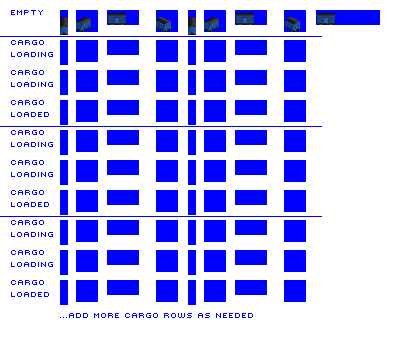
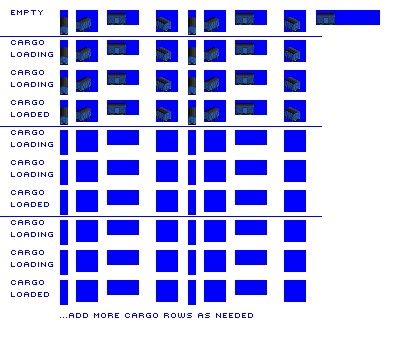
Codechange: prepare box cars for loading state support

diff --git a/src/vehicles/box_cars.py b/src/vehicles/box_cars.py
@@ -1,14 +1,19 @@
 import global_constants
 from train import TypeConfig, WagonConsist, Wagon, GraphicsProcessorFactory
 
+box_car_label_refits_allowed = ['MAIL', 'GRAI', 'WHEA', 'MAIZ', 'FRUT']
+cargo_graphics_mappings = {} # template needs this, but box car has zero cargo-specific graphics, all generic
+
 options = {'template': 'box_car_brit_gen_1_template.png'}
 graphics_processor_1 = GraphicsProcessorFactory('pass_through_pipeline', options)
 graphics_processor_2 = GraphicsProcessorFactory('swap_company_colours_pipeline', options)
 
 type_config = TypeConfig(base_id = 'box_car',
-                    template = 'train.pynml',
+                    template = 'car_with_open_doors_during_loading.pynml',
+                    num_cargo_rows = 1, # template needs this, but box car has zero cargo-specific graphics, all generic
                     class_refit_groups = ['packaged_freight'],
-                    label_refits_allowed = ['GRAI', 'WHEA', 'MAIZ', 'FRUT'],
+                    label_refits_allowed = box_car_label_refits_allowed,
+                    cargo_graphics_mappings = cargo_graphics_mappings,
                     label_refits_disallowed = [],
                     autorefit = True,
                     default_cargo = 'GOOD',
@@ -110,9 +115,11 @@ graphics_processor_1 = GraphicsProcessorFactory('pass_through_pipeline', options
 graphics_processor_2 = GraphicsProcessorFactory('swap_company_colours_pipeline', options)
 
 type_config = TypeConfig(base_id = 'box_car_ng',
-                template = 'train.pynml',
+                template = 'car_with_open_doors_during_loading.pynml',
+                num_cargo_rows = 1, # template needs this, but box car has zero cargo-specific graphics, all generic
                 class_refit_groups = ['packaged_freight'],
-                label_refits_allowed = ['MAIL', 'GRAI', 'WHEA', 'MAIZ'],
+                cargo_graphics_mappings = cargo_graphics_mappings,
+                label_refits_allowed = box_car_label_refits_allowed,
                 label_refits_disallowed = [],
                 autorefit = True,
                 default_cargo = 'GOOD',
